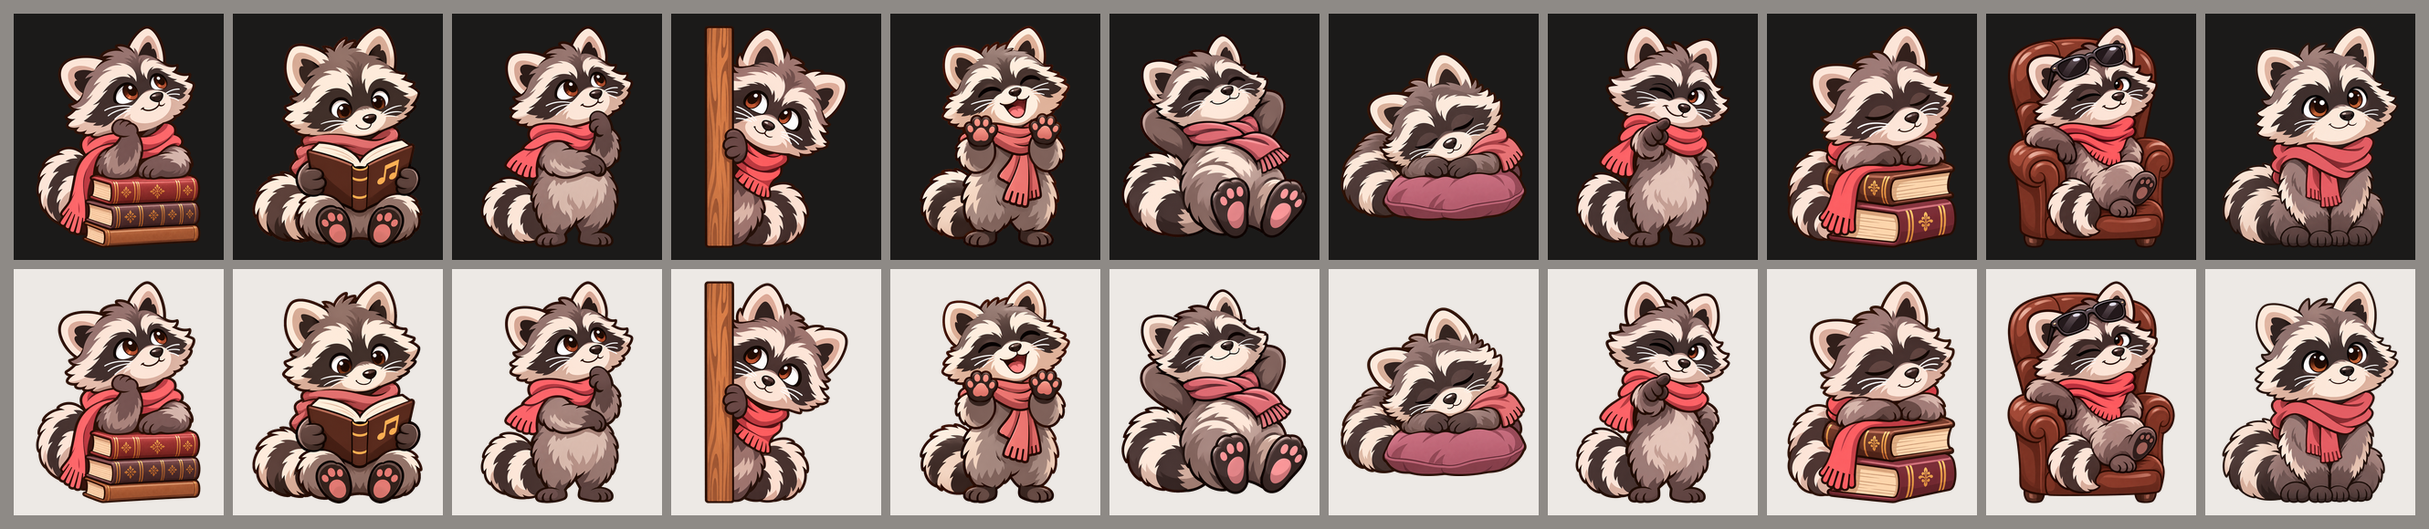
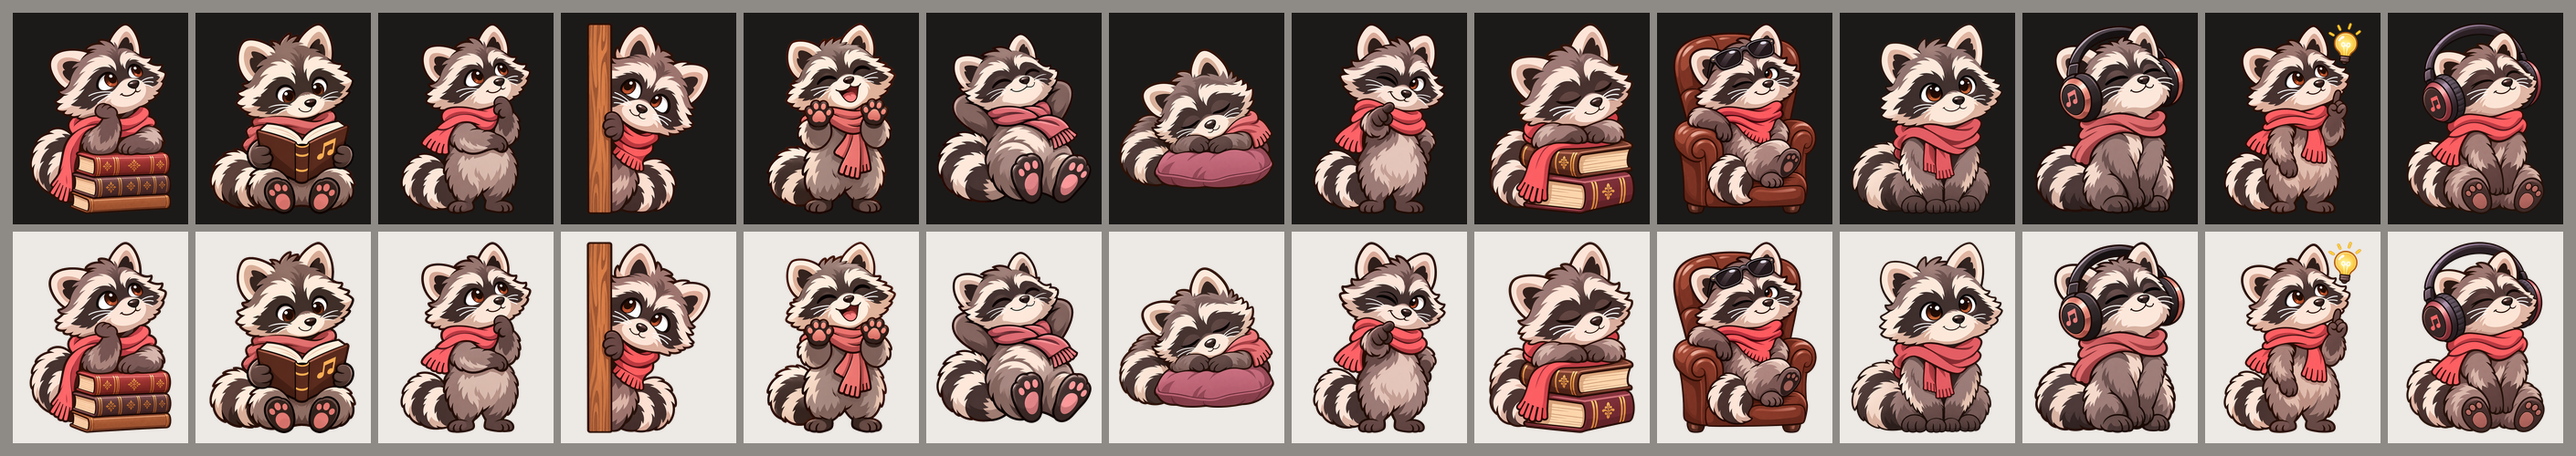
feat(bandit): последние позы — наушники (A/B) и идея; набор 13 из 13
Claude-Session: https://claude.ai/code/session_01R788EjkqSvxxnmrWitkADz

diff --git a/AGENTS.md b/AGENTS.md
@@ -4,7 +4,7 @@ Language: discuss decisions with the user in Russian. Keep technical identifiers
 
 1. This repository is a **design-only** workspace. Never modify or dispatch changes to the existing AllMusic repositories or playback engines unless user explicitly changes scope.
 2. Product name: **enoTone**, always spelled with capital `T`. Mascot: **Бандит**. Do not rename. The selected **Wordmark Master v1.0** is documented in `docs/WORDMARK_MASTER_V1.md`: preserve rounded T and left eno silhouette, mirror right `one` (both n/e). Use only the Graphite/Porcelain approved colors; do not redraw the wordmark or use wide-T-bar experimental logos.
-3. IMPORTANT SUPERSESSION: the user replaced the old 10-scene mascot with **13 newly supplied Bandit PNGs** on 2026-11-04. The Git-tracked `assets/references/bandit-10-approved.png` and its ZIP backup are historical and MUST NOT be used in new UI. 11 of them are now in `assets/bandit/originals/` (unchanged) and `assets/bandit/clean/` (fixed transparency) — see `docs/BANDIT_SET_V1.md`; the other 2 are not yet uploaded. Do not approximate, regenerate or silently restore the older character. Keep current Bandit unchanged once imported.
+3. IMPORTANT SUPERSESSION: the user replaced the old 10-scene mascot with **13 newly supplied Bandit PNGs** on 2026-11-04. The Git-tracked `assets/references/bandit-10-approved.png` and its ZIP backup are historical and MUST NOT be used in new UI. All 13 (plus an alternate headphones pose) are now in `assets/bandit/originals/` (unchanged) and `assets/bandit/clean/` (fixed transparency) — see `docs/BANDIT_SET_V1.md`. Do not approximate, regenerate or silently restore the older character. Keep current Bandit unchanged once imported.
 4. **Approved app icon v2.0 (2026-11-12):** see `docs/APP_ICON_V2.md`. Built from the user-supplied transparent Bandit master `assets/bandit/masters/bandit_pointing_master_1254.png` (keep byte-for-byte) by `tools/build_app_icon.py`. ONE icon, ONE background: Graphite `#1B1A19`; no light variant. Bandit rises from the BOTTOM EDGE with no lower padding and points at the user. Android uses the adaptive icon in `assets/icons/v2.0/android/res/` (transparent foreground + color); square/round 1024 PNG are for README/web only. Do not redraw or regenerate Bandit; to change composition, edit the script parameters and rebuild. v1.0 (`APP_ICON_APPROVED_V1.md`), platform pack v1 and Android adaptive color v2 are HISTORICAL and must not be used. Monochrome is deferred by the user; do not add it without a request. Not yet checked on the Huawei phone.
 5. Approved current style is **«Глянцевый енот»** with themes **«Графит»** and **«Фарфор»**. Palette is locked to `tokens/colors.json` (version 1.3), based on the user-supplied board `Основа палитра и стиль@2x.png`; the former `assets/references/ui-palette-approved.jpg` is historical, not normative. Fonts: **Unbounded** for headings, **Onest** elsewhere. Large 16–28 px radii, circular Play, selective glaze effects. Additional semantic/UI state tokens require review.
 6. Preserve the approved source art. User explicitly authorized SVG conversion of the new Bandit; v2 contains real smooth cubic Bézier contours rather than v1's rectangular vector tiles, but simplified shading is still visible. It is NOT hand-drawn and NOT pixel-perfect. State this limitation. Do not claim Android adaptive/monochrome or Windows ICO resources exist; they do not.

diff --git a/docs/BANDIT_SET_V1.md b/docs/BANDIT_SET_V1.md
@@ -1,4 +1,4 @@
-# Бандит — набор изображений v1 (11 из 13)
+# Бандит — набор изображений v1 (13 из 13)
 
 **Дата:** 2026-11-12
 **Статус:** изображения и назначение по экранам — **APPROVED** владельцем 2026-11-12. Стиль — только мультяшный; 3D-версия отклонена для интерфейса (допустима лишь в крупной маркетинговой графике).
@@ -30,6 +30,9 @@
 | 9 | `bandit_09_sleeping_books.png` | уснул на стопке книг | RGBA | Индексация на паузе (нет сети, ждёт) | `4e49ad44c37285b7…` |
 | 10 | `bandit_10_armchair_cool.png` | развалился в кресле, очки на лбу, подмигивает | RGBA | Настройки — шапка рядом с wordmark («хозяин заведения») | `8906802eb51f90da…` |
 | 11 | `bandit_11_sitting.png` | сидит, смотрит на зрителя, улыбается | RGBA | Экран входа: приветствие перед вводом логина | `6dfa74836e1d07a8…` |
+| 12 | `bandit_12_headphones_a.png` | в наушниках, сидит (вариант A, шарф приглушённее остального набора) | RGBA | **Не используется** — оставлен как альтернатива; выбран вариант B | `df0b3b58767cb055…` |
+| 13 | `bandit_13_idea.png` | стоит, поднял палец, над головой лампочка | RGBA | Подсказки и «Что нового»: короткие советы (например, «Долгое нажатие на песню — действия») | `ad131ab49d063cb2…` |
+| 14 | `bandit_14_headphones_b.png` | в наушниках, сидит, лапки вперёд (вариант B, цвет шарфа как у набора) | RGBA | «Домой»: плашка «Перемешать всё» — **кандидат** вместо подмигивающего мастера, ждёт выбора владельца | `fcc33fb31479fd77…` |
 
 ## Правила
 
@@ -38,4 +41,4 @@
 
 - Бандит не перерисовывается и не перегенерируется; допускаются масштаб, обрезка и размещение.
 - Один Бандит на экран, не в списках и не рядом с обложками — только в пустых состояниях, настройках, приглашениях.
-- Недостающие 2 из 13 изображений ещё не загружены.
+- Все 13 изображений загружены (поза «в наушниках» — в двух вариантах, 12 и 14).

diff --git a/docs/CHANGELOG.md b/docs/CHANGELOG.md
@@ -116,3 +116,4 @@
 - Предложено назначение по экранам (пустые состояния, индексация, настройки) — `docs/BANDIT_SET_V1.md`; ждёт решения владельца.
 
 - 2026-11-12: владелец утвердил назначение Бандитов по экранам и голос сообщений от лица Бандита; 3D-версия персонажа отклонена для интерфейса.
+- 2026-11-12: загружены последние позы — в наушниках (два варианта; выбран B, у A шарф приглушённее набора) и «идея» с лампочкой. Набор полный: 13 из 13.
